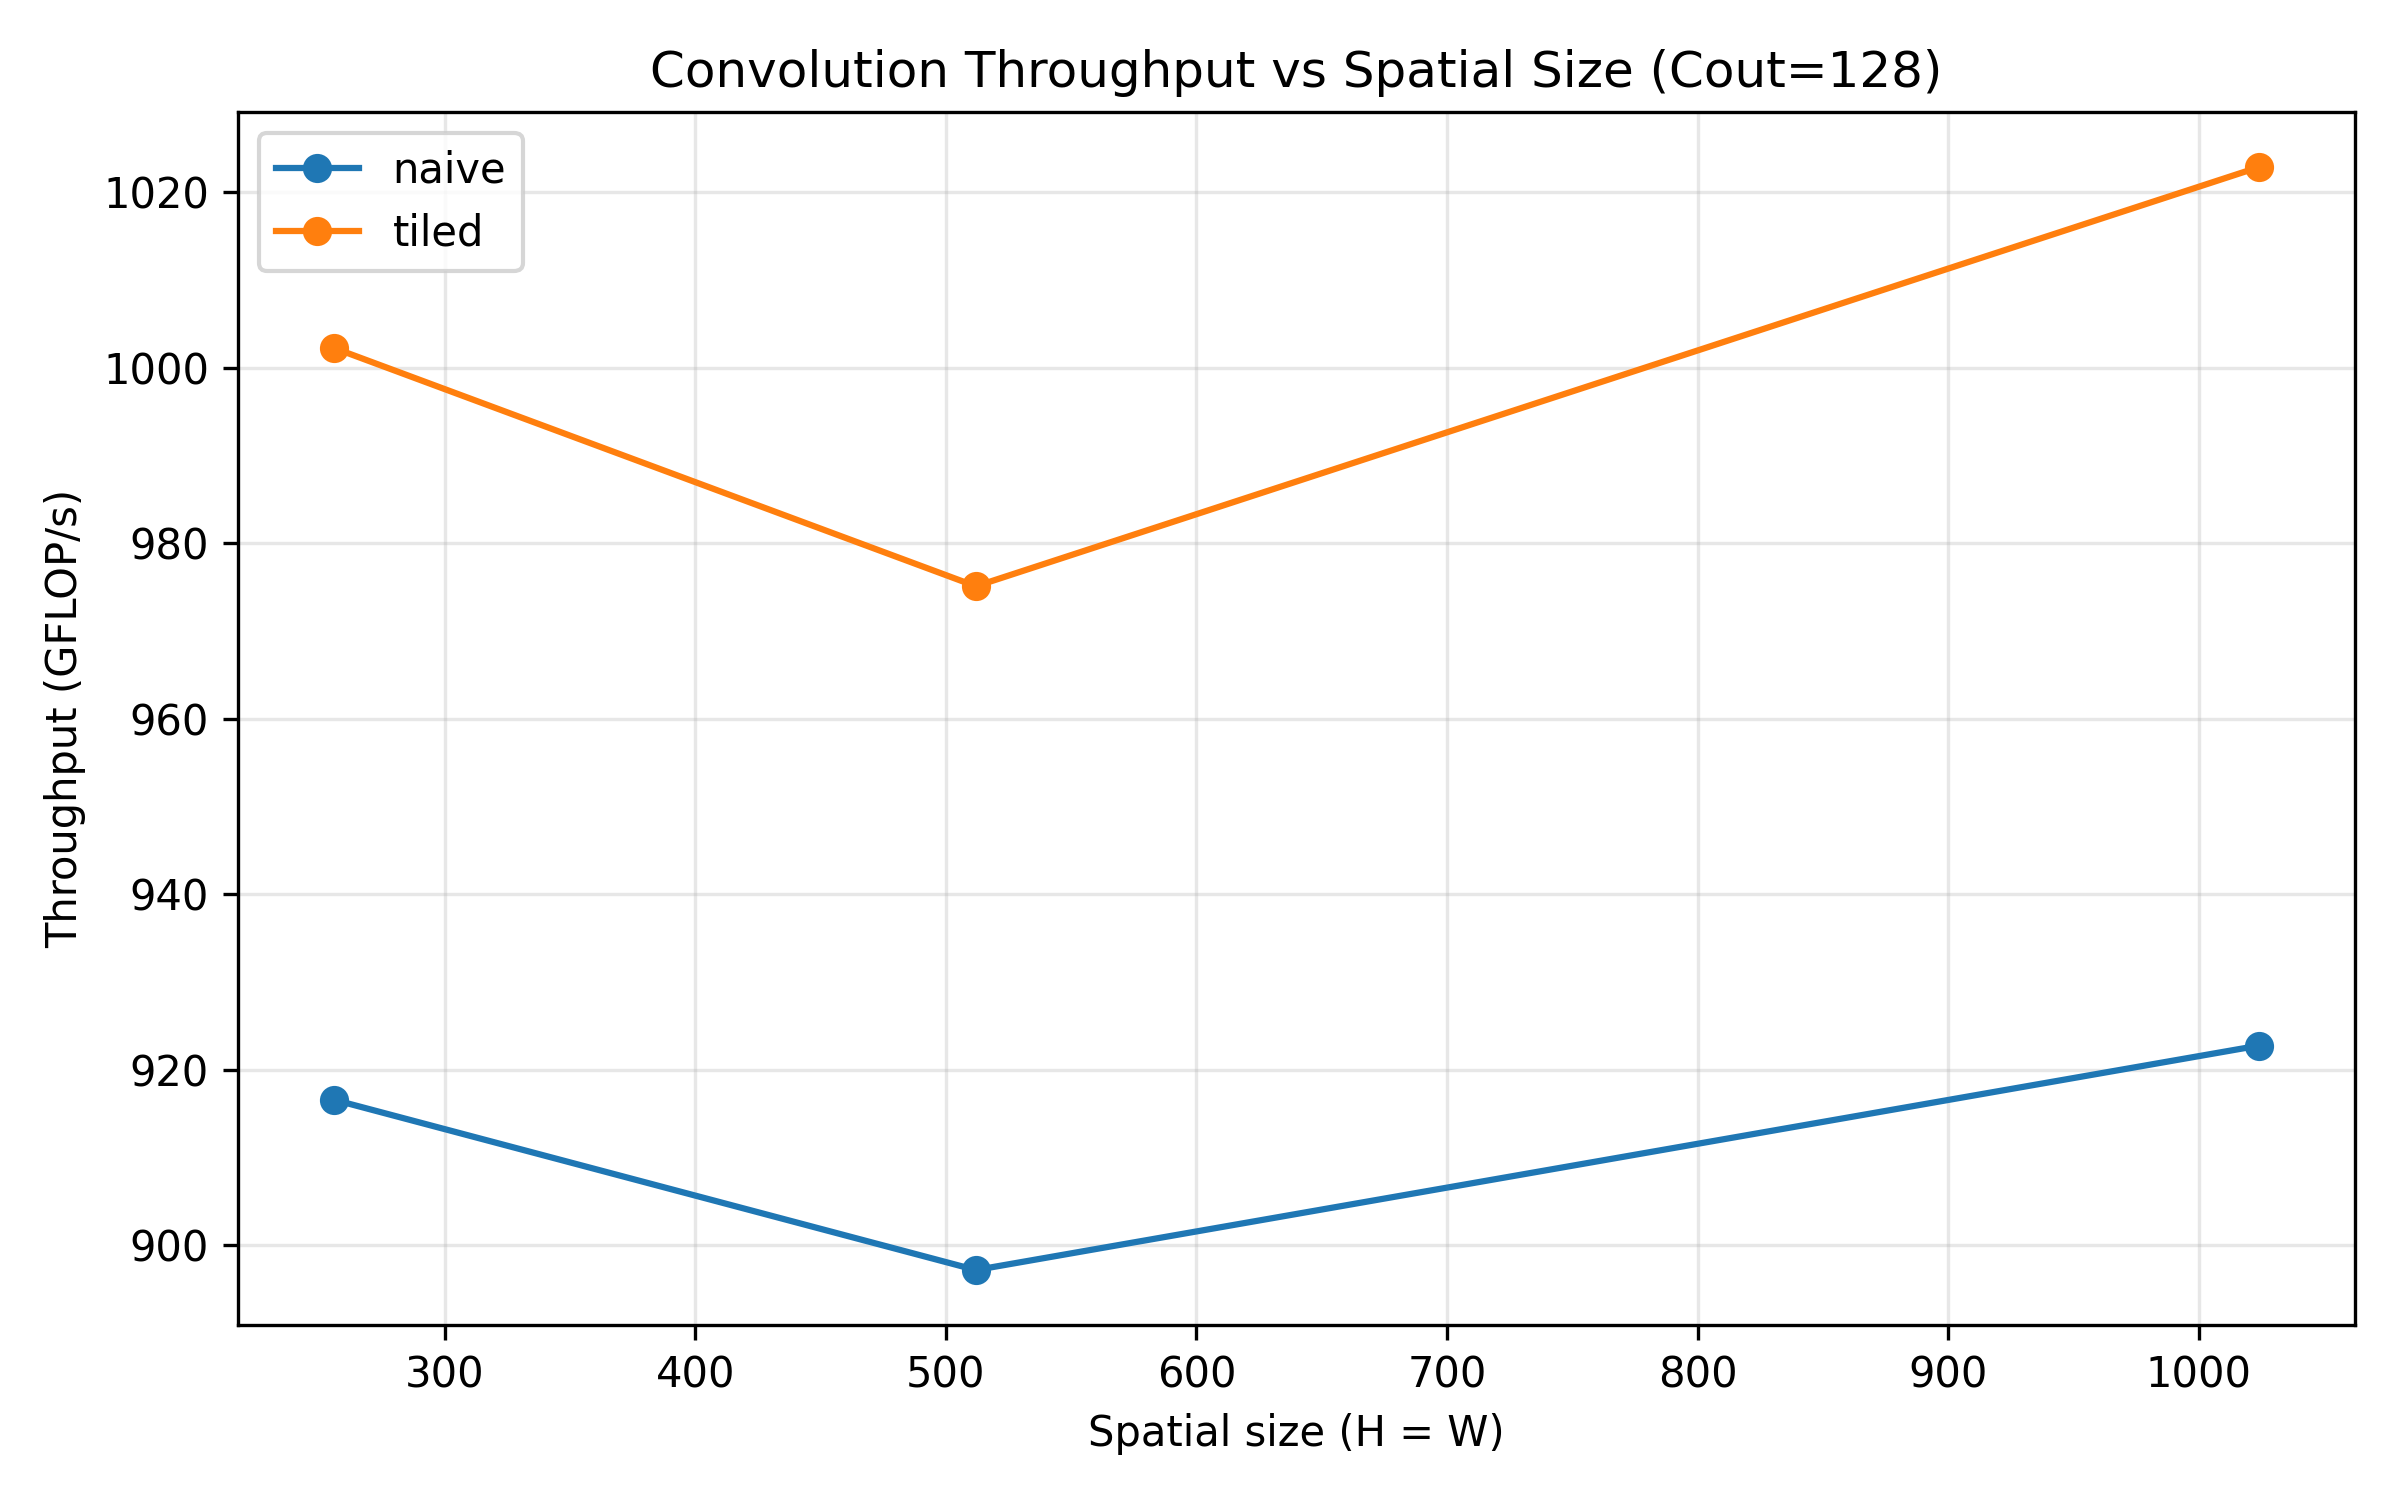
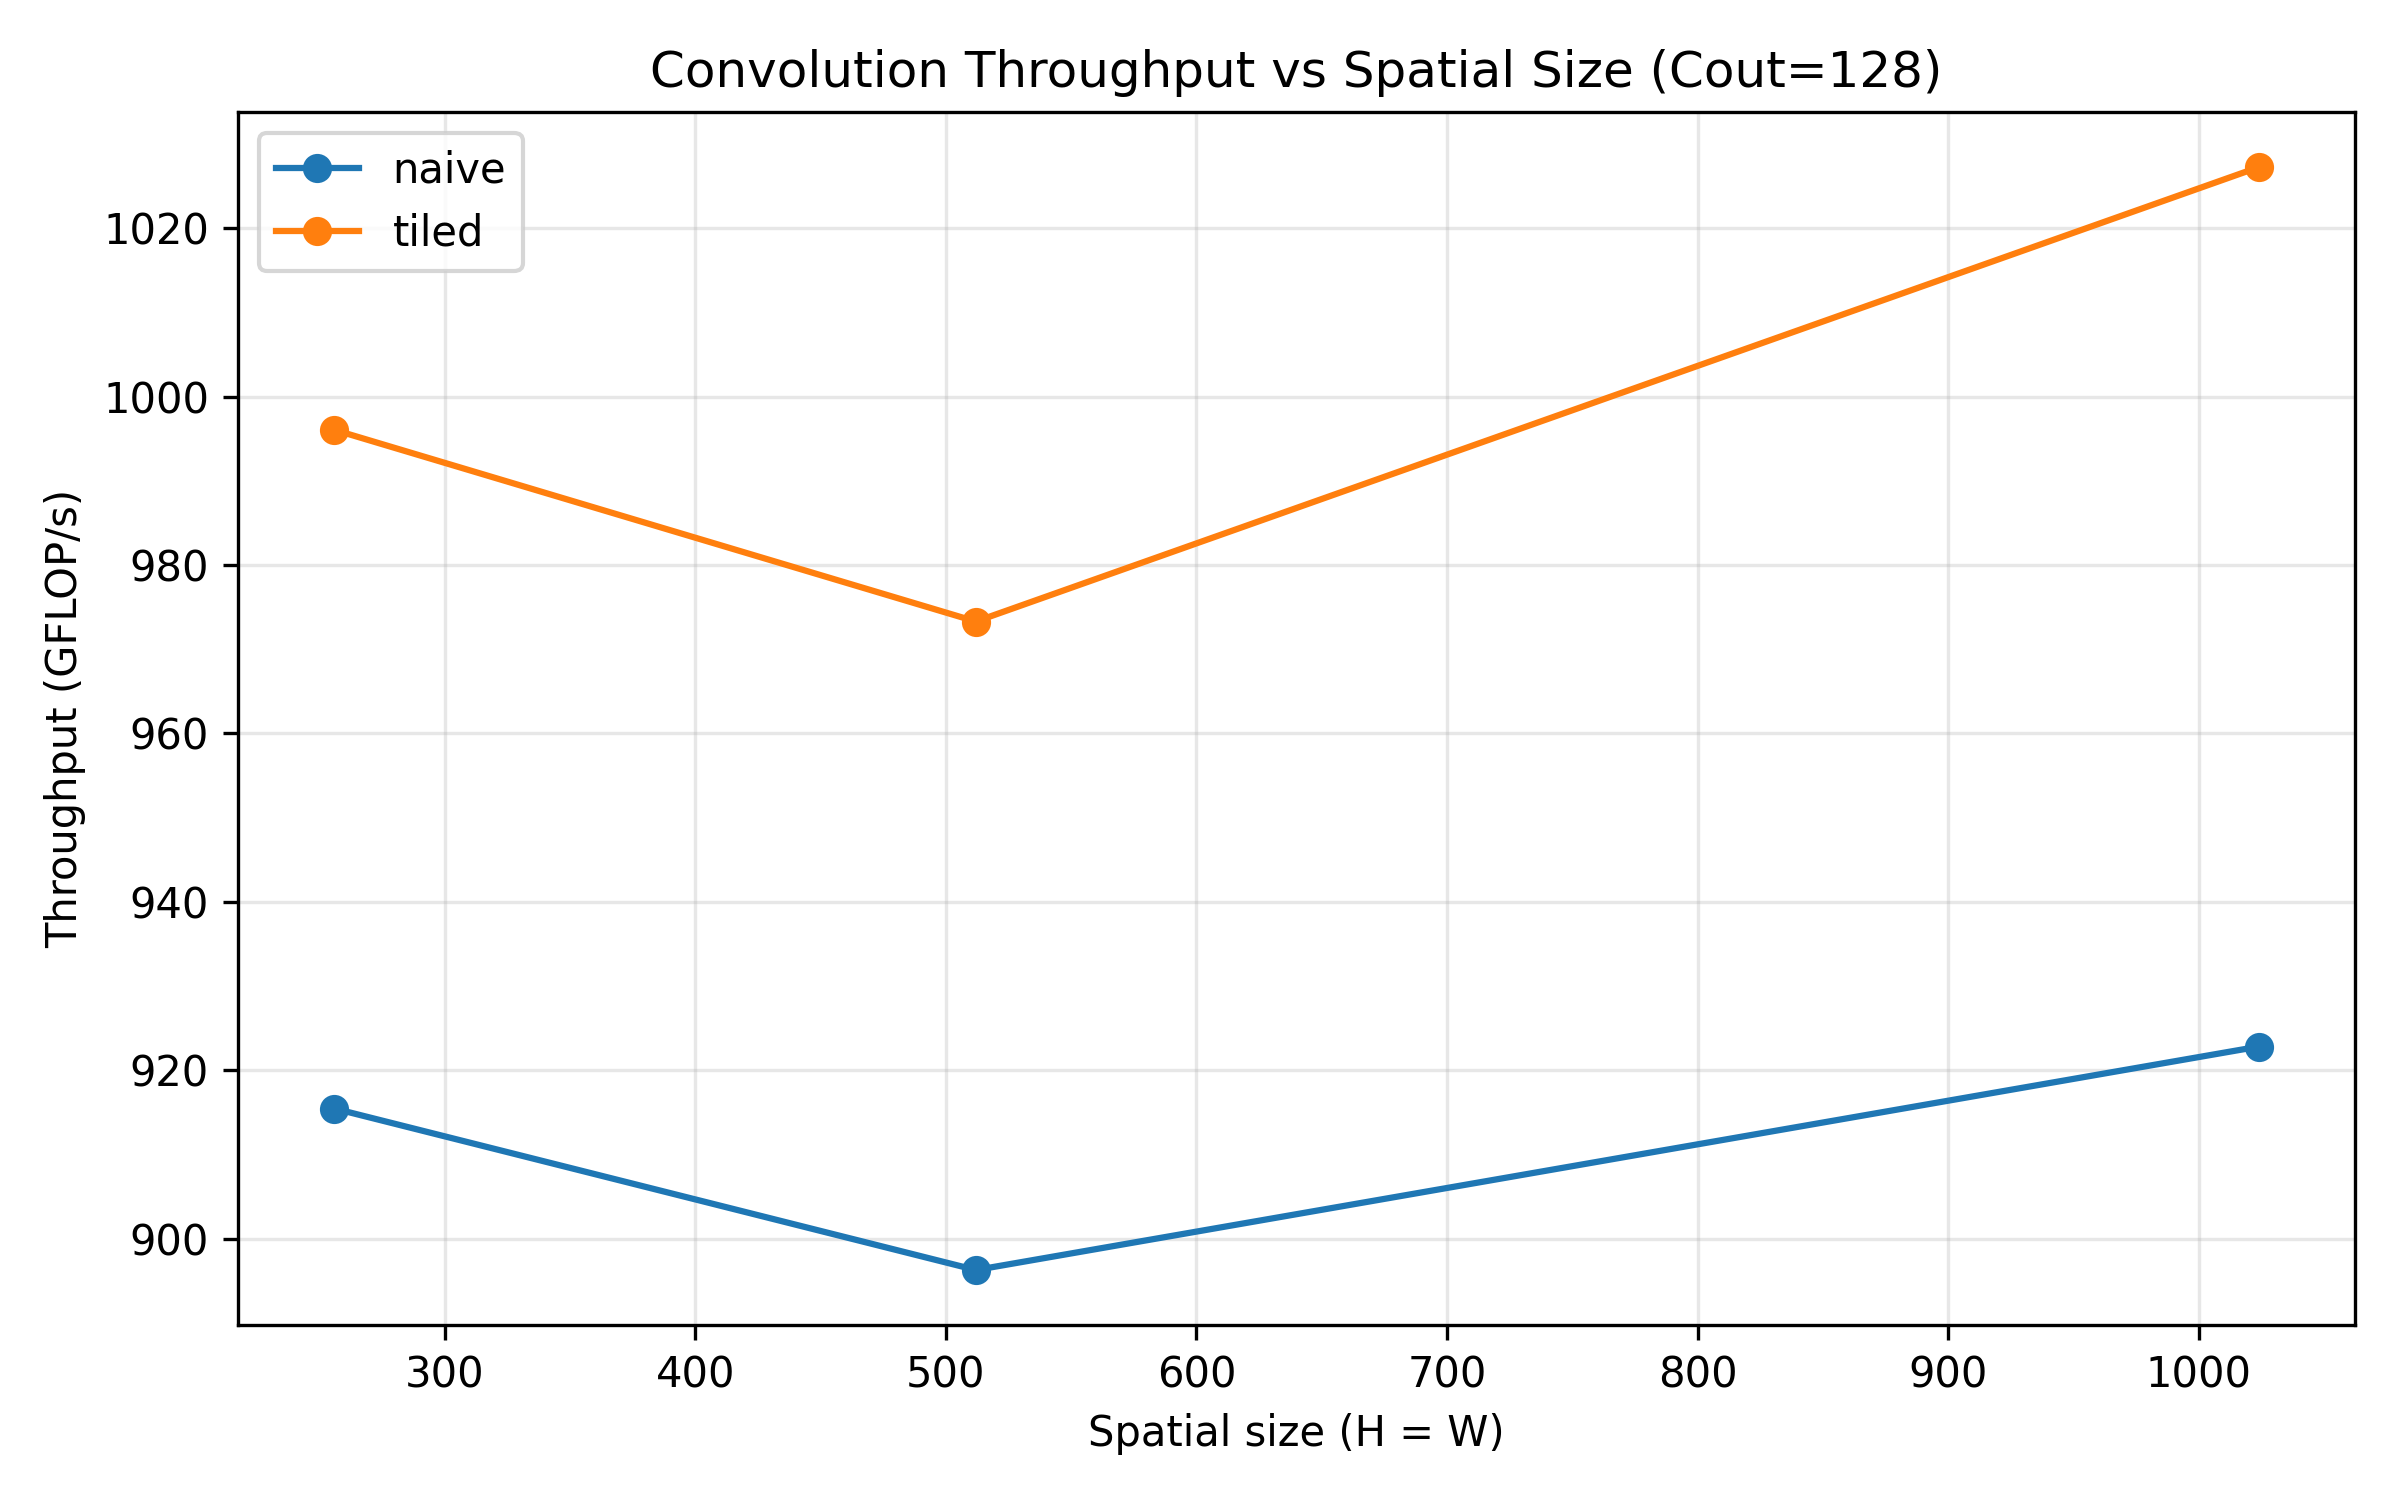
updated plotting to take average'

diff --git a/exp5_conv/scripts/plot_results.py b/exp5_conv/scripts/plot_results.py
@@ -2,31 +2,57 @@
 
 import csv
 import sys
+from collections import defaultdict
 from pathlib import Path
 
 import matplotlib.pyplot as plt
 
 
-def load_results(csv_path):
-    rows = []
+def load_and_average_results(csv_dir):
+    csv_files = sorted(csv_dir.glob("*.csv"))
+    if not csv_files:
+        raise FileNotFoundError(f"No CSV files found in: {csv_dir}")
 
-    with open(csv_path, "r", newline="") as f:
-        reader = csv.DictReader(f)
-        for row in reader:
-            rows.append(
-                {
-                    "impl": row["impl"],
-                    "height": int(row["height"]),
-                    "width": int(row["width"]),
-                    "cin": int(row["cin"]),
-                    "cout": int(row["cout"]),
-                    "k": int(row["k"]),
-                    "stride": int(row["stride"]),
-                    "padding": int(row["padding"]),
-                    "time_ms": float(row["time_ms"]),
-                    "gflops": float(row["gflops"]),
-                }
-            )
+    grouped = defaultdict(lambda: {"time_ms_sum": 0.0, "gflops_sum": 0.0, "count": 0})
+
+    for csv_path in csv_files:
+        with open(csv_path, "r", newline="") as f:
+            reader = csv.DictReader(f)
+            for row in reader:
+                key = (
+                    row["impl"],
+                    int(row["height"]),
+                    int(row["width"]),
+                    int(row["cin"]),
+                    int(row["cout"]),
+                    int(row["k"]),
+                    int(row["stride"]),
+                    int(row["padding"]),
+                )
+
+                grouped[key]["time_ms_sum"] += float(row["time_ms"])
+                grouped[key]["gflops_sum"] += float(row["gflops"])
+                grouped[key]["count"] += 1
+
+    rows = []
+    for key, values in grouped.items():
+        impl, height, width, cin, cout, k, stride, padding = key
+        count = values["count"]
+        rows.append(
+            {
+                "impl": impl,
+                "height": height,
+                "width": width,
+                "cin": cin,
+                "cout": cout,
+                "k": k,
+                "stride": stride,
+                "padding": padding,
+                "time_ms": values["time_ms_sum"] / count,
+                "gflops": values["gflops_sum"] / count,
+                "count": count,
+            }
+        )
 
     return rows
 
@@ -112,27 +138,82 @@ def make_speedup_plot(grouped, output_dir):
     plt.close()
 
 
+def write_averaged_csv(rows, output_dir):
+    out_csv = output_dir / "averaged_results.csv"
+    rows = sorted(
+        rows,
+        key=lambda r: (
+            r["cout"],
+            r["impl"],
+            r["height"],
+            r["width"],
+            r["cin"],
+            r["k"],
+            r["stride"],
+            r["padding"],
+        ),
+    )
+
+    with open(out_csv, "w", newline="") as f:
+        writer = csv.writer(f)
+        writer.writerow(
+            [
+                "impl",
+                "height",
+                "width",
+                "cin",
+                "cout",
+                "k",
+                "stride",
+                "padding",
+                "time_ms",
+                "gflops",
+                "samples_averaged",
+            ]
+        )
+        for r in rows:
+            writer.writerow(
+                [
+                    r["impl"],
+                    r["height"],
+                    r["width"],
+                    r["cin"],
+                    r["cout"],
+                    r["k"],
+                    r["stride"],
+                    r["padding"],
+                    r["time_ms"],
+                    r["gflops"],
+                    r["count"],
+                ]
+            )
+
+    return out_csv
+
+
 def main():
     if len(sys.argv) not in (2, 3):
-        print(f"Usage: {Path(sys.argv[0]).name} <results.csv> [output_dir]")
+        print(f"Usage: {Path(sys.argv[0]).name} <csv_folder> [output_dir]")
         sys.exit(1)
 
-    csv_path = Path(sys.argv[1])
+    csv_dir = Path(sys.argv[1])
     output_dir = Path(sys.argv[2]) if len(sys.argv) == 3 else Path("plots")
 
-    if not csv_path.exists():
-        print(f"Error: CSV file not found: {csv_path}")
+    if not csv_dir.exists() or not csv_dir.is_dir():
+        print(f"Error: CSV folder not found or is not a directory: {csv_dir}")
         sys.exit(1)
 
     output_dir.mkdir(parents=True, exist_ok=True)
 
-    rows = load_results(csv_path)
+    rows = load_and_average_results(csv_dir)
     grouped = group_by_cout(rows)
 
+    averaged_csv = write_averaged_csv(rows, output_dir)
     make_runtime_plot(grouped, output_dir)
     make_gflops_plot(grouped, output_dir)
     make_speedup_plot(grouped, output_dir)
 
+    print(f"Averaged CSV written to: {averaged_csv}")
     print(f"Plots written to: {output_dir}")
 
 
